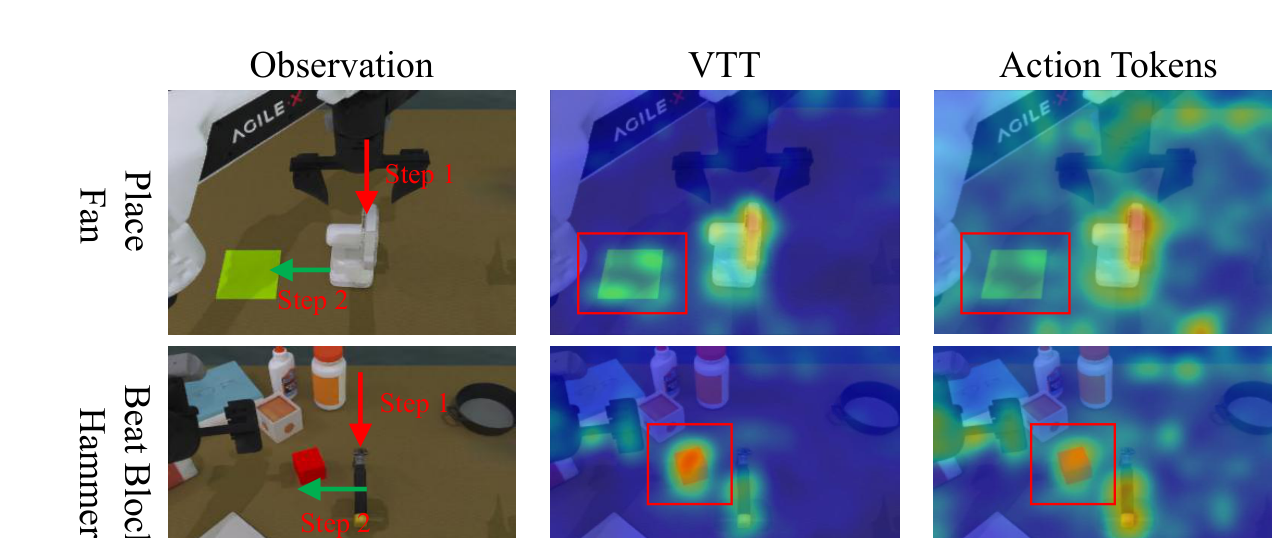
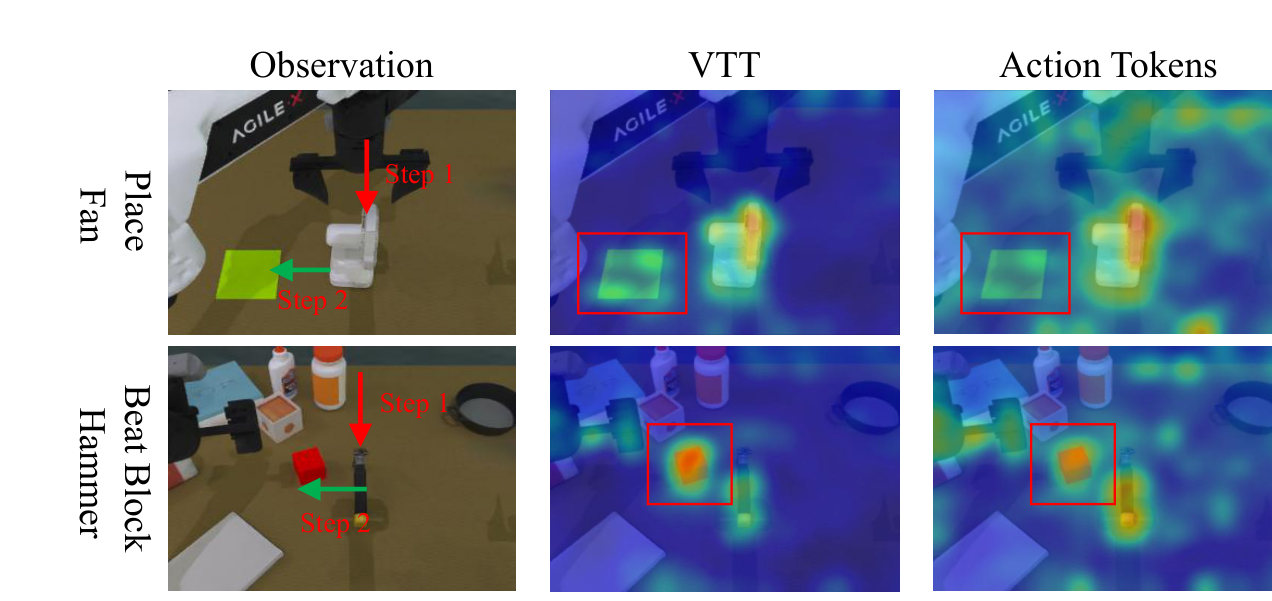
Add arXiv id to BibTeX, move comparison plots forward and abstract to end, fix attention map crop

diff --git a/index.html b/index.html
@@ -207,28 +207,25 @@
   </section>
   <!-- End teaser video -->
 
-  <!-- Paper abstract -->
+  <!-- Comparison figures (teaser plots) -->
   <section class="section hero is-light">
     <div class="container is-max-desktop">
-      <div class="columns is-centered has-text-centered">
-        <div class="column is-four-fifths">
-          <h2 class="title is-3">Abstract</h2>
-          <div class="content has-text-justified">
-            <p>
-              World-action modeling has emerged as a promising paradigm for robotic control, as it empowers models to go beyond reacting to observations and anticipate how a scene will evolve.
-              However, existing WAMs often incur substantial computational overhead.
-              Pixel-space methods often allocate substantial capacity to visual details that may not be directly relevant to control, while some latent-space methods require multi-stage training to construct the reasoning space. The resulting training cost can make such methods difficult to train under modest computational budgets.
-              In this work, we propose LiLa-WAM, a lightweight world-action model that reasons about the future in a compact latent space and can be trained end-to-end on a single 24GB GPU.
-              Its core design is a compact latent reasoning space jointly shaped by future-state prediction and action generation, which keeps the model lightweight while remaining well aligned with control.
-              For task specification, we further propose the Visual Transition Token (VTT), a language-free task representation that encodes each task as a direction in visual feature space.
-              Experiments on RoboTwin 2.0, LIBERO, and real-robot tasks demonstrate LiLa-WAM's effectiveness, achieving 90.48% success across 50 RoboTwin tasks with single-GPU training.
-            </p>
-          </div>
+      <div class="columns is-centered is-vcentered">
+        <div class="column has-text-centered">
+          <img src="static/images/compare_robotwin.png" class="figure-img" alt="Success rate versus model size on RoboTwin 2.0"/>
+          <p class="figure-caption">Comparison on RoboTwin 2.0 (50 tasks).</p>
+        </div>
+        <div class="column has-text-centered">
+          <img src="static/images/compare_libero.png" class="figure-img" alt="Success rate versus model size on LIBERO"/>
+          <p class="figure-caption">Comparison on LIBERO.</p>
         </div>
       </div>
+      <p class="has-text-centered figure-caption">
+        Average success rate versus model size. LiLa-WAM achieves competitive performance while using substantially fewer parameters than most compared methods.
+      </p>
     </div>
   </section>
-  <!-- End paper abstract -->
+  <!-- End comparison figures -->
 
   <!-- Method / Framework -->
   <section class="section">
@@ -284,20 +281,6 @@
   <section class="section">
     <div class="container is-max-desktop">
       <h2 class="title is-3 has-text-centered">Results</h2>
-
-      <div class="columns is-centered">
-        <div class="column has-text-centered">
-          <img src="static/images/compare_robotwin.png" class="figure-img" style="max-width: 90%;" alt="Success rate versus model size on RoboTwin 2.0" loading="lazy"/>
-          <p class="figure-caption">Comparison on RoboTwin 2.0 (50 tasks).</p>
-        </div>
-        <div class="column has-text-centered">
-          <img src="static/images/compare_libero.png" class="figure-img" style="max-width: 90%;" alt="Success rate versus model size on LIBERO" loading="lazy"/>
-          <p class="figure-caption">Comparison on LIBERO.</p>
-        </div>
-      </div>
-      <p class="has-text-centered figure-caption" style="margin-bottom: 2rem;">
-        Average success rate versus model size. LiLa-WAM achieves competitive performance while using substantially fewer parameters than most compared methods.
-      </p>
 
       <div class="columns is-centered">
         <div class="column has-text-centered">
@@ -415,8 +398,31 @@
   </section>
   <!-- End real-robot experiments -->
 
+  <!-- Paper abstract -->
+  <section class="section hero is-light">
+    <div class="container is-max-desktop">
+      <div class="columns is-centered has-text-centered">
+        <div class="column is-four-fifths">
+          <h2 class="title is-3">Abstract</h2>
+          <div class="content has-text-justified">
+            <p>
+              World-action modeling has emerged as a promising paradigm for robotic control, as it empowers models to go beyond reacting to observations and anticipate how a scene will evolve.
+              However, existing WAMs often incur substantial computational overhead.
+              Pixel-space methods often allocate substantial capacity to visual details that may not be directly relevant to control, while some latent-space methods require multi-stage training to construct the reasoning space. The resulting training cost can make such methods difficult to train under modest computational budgets.
+              In this work, we propose LiLa-WAM, a lightweight world-action model that reasons about the future in a compact latent space and can be trained end-to-end on a single 24GB GPU.
+              Its core design is a compact latent reasoning space jointly shaped by future-state prediction and action generation, which keeps the model lightweight while remaining well aligned with control.
+              For task specification, we further propose the Visual Transition Token (VTT), a language-free task representation that encodes each task as a direction in visual feature space.
+              Experiments on RoboTwin 2.0, LIBERO, and real-robot tasks demonstrate LiLa-WAM's effectiveness, achieving 90.48% success across 50 RoboTwin tasks with single-GPU training.
+            </p>
+          </div>
+        </div>
+      </div>
+    </div>
+  </section>
+  <!-- End paper abstract -->
+
   <!-- BibTeX citation -->
-  <section class="section hero is-light" id="BibTeX">
+  <section class="section" id="BibTeX">
     <div class="container is-max-desktop content">
       <div class="bibtex-header">
         <h2 class="title">BibTeX</h2>
@@ -428,9 +434,9 @@
       <pre id="bibtex-code"><code>@article{yang2026lilawam,
   title={LiLa-WAM: Lightweight Latent Reasoning World-Action Model for Robotic Manipulation},
   author={Yang, Fan and Su, Yuting and Wang, Xiaobo and You, Yuncheng and Fan, Fugui and Wu, Yuting and Wu, Minghui and Zhao, Chenxu and Ning, Jiahong and Jing, Peiguang},
-  journal={arXiv preprint},
+  journal={arXiv preprint arXiv:2608.03701},
   year={2026},
-  url={https://github.com/teee000/LiLa-WAM}
+  url={https://arxiv.org/abs/2608.03701}
 }</code></pre>
     </div>
   </section>
